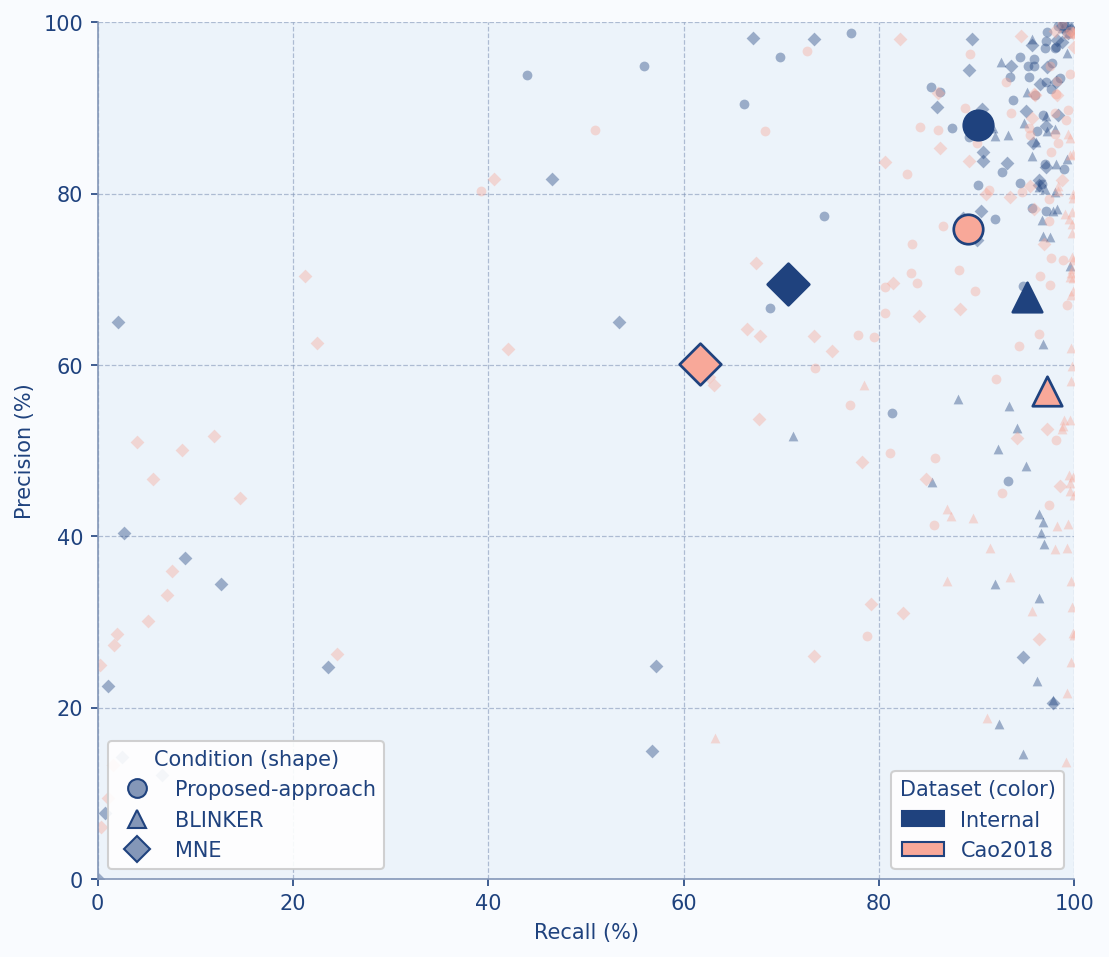
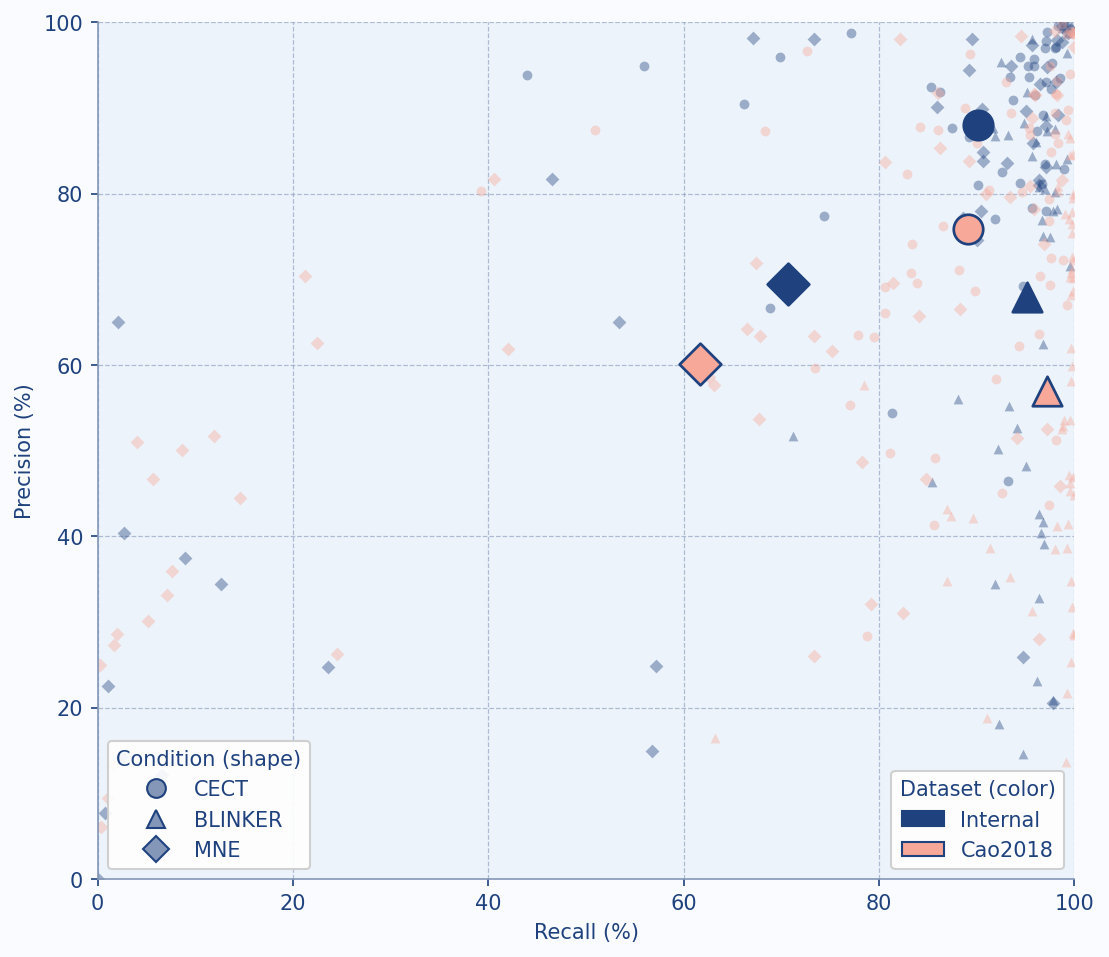
Refine table and figure captions to replace "Proposed-approach" with "CECT", clarifying baseline comparisons and significance in F1 results

Changed region(s): [[0.092, 0.7879, 0.3372, 0.9091], [0.2759, 0.8788, 0.3066, 0.9091]]

diff --git a/experiment_script/res_exp3_table_strategy_f1_significance.py b/experiment_script/res_exp3_table_strategy_f1_significance.py
@@ -1,11 +1,11 @@
-"""Table 4 — Proposed-approach F1 vs. both baselines, per dataset.
+"""Table 4 — CECT F1 vs. both baselines, per dataset.
 
-Writes ``writing/e_result/exp4/tab_f1_significance.tex`` (tab:f1_significance).
+Writes ``writing/e_result/exp3/tab_f1_significance.tex`` (tab:f1_significance).
 
 Replaces the deleted Figure 4/8 (``fig4_fig5_condition_prf.py``'s ``fig_condition_prf``,
 which plotted precision/recall/F1 for the proposed approach alone). That figure's own
 generator is gone; this table keeps only what a reader actually used from it -- each
-condition's F1 and whether Proposed-approach differs significantly from it. The
+condition's F1 and whether CECT differs significantly from it. The
 precision/recall operating-point story now lives in Figure~\\ref{fig:exp2_pr_scatter}
 instead.
 
@@ -13,8 +13,8 @@ No Pooled row (Internal and Cao2018 only). Both BLINKER-concat and MNE-annot get
 own column (displayed as "BLINKER"/"MNE" via the shared ``DISPLAY_LABEL``/``P.display``
 mapping in ``paper_data.py``). Four tests total (two baselines x two datasets),
 Bonferroni-corrected as one family; the asterisk sits on each baseline's own cell,
-marking that specific baseline as significantly different from Proposed-approach (not a
-single combined marker on the Proposed-approach cell) -- two-sided Wilcoxon signed-rank,
+marking that specific baseline as significantly different from CECT (not a
+single combined marker on the CECT cell) -- two-sided Wilcoxon signed-rank,
 session-level F1. Exact $p$-values are not printed on the table, only the threshold in
 the caption, matching the Figure 7/10 asterisk convention used throughout the manuscript.
 
@@ -56,8 +56,19 @@ PROPOSED = "Proposed-Med"
 BASELINES = ["BLINKER-concat", "MNE-annot"]
 
 
-def compute(best: dict) -> list[tuple[str, float, dict[str, tuple[float, bool]]]]:
-    """``(dataset label, Proposed-approach F1, {baseline -> (F1, significant)})``.
+def mean_sd(best: dict, ds: str, cond: str) -> tuple[float, float]:
+    """Session-mean and sample SD of F1 for one dataset and condition."""
+    f1 = best[(ds, cond)]["f1"]
+    return f1.mean(), f1.std()
+
+
+def cell(m_sd: tuple[float, float], star: str = "") -> str:
+    """``\\rev{mean $\\pm$ SD*}`` table cell, in percent."""
+    return rf"\rev{{{P.fmt(m_sd[0])} $\pm$ {P.fmt(m_sd[1])}{star}}}"
+
+
+def compute(best: dict) -> list[tuple[str, tuple, dict[str, tuple[tuple, bool]]]]:
+    """``(dataset label, CECT (F1, SD), {baseline -> ((F1, SD), significant)})``.
 
     Significance is Bonferroni-corrected across all four tests (two baselines x two
     datasets) shown in this table, not per dataset alone.
@@ -65,10 +76,10 @@ def compute(best: dict) -> list[tuple[str, float, dict[str, tuple[float, bool]]]
     n_corrections = len(BASELINES) * 2
     rows = []
     for ds, label in [("raja", P.DSN["raja"]), ("cao", "Cao2018")]:
-        f1_prop = P.macro(best, ds, PROPOSED)[2]
+        f1_prop = mean_sd(best, ds, PROPOSED)
         per_baseline = {}
         for baseline in BASELINES:
-            f1_base = P.macro(best, ds, baseline)[2]
+            f1_base = mean_sd(best, ds, baseline)
             a, b = P.paired_f1(best, PROPOSED, baseline, ds_list=(ds,))
             _, p = stats.wilcoxon(a, b, alternative="two-sided")
             per_baseline[baseline] = (f1_base, min(1.0, p * n_corrections) < 0.05)
@@ -76,19 +87,18 @@ def compute(best: dict) -> list[tuple[str, float, dict[str, tuple[float, bool]]]
     return rows
 
 
-def build_table(rows: list[tuple[str, float, dict[str, tuple[float, bool]]]]) -> list[str]:
-    blinker, mne = (P.display(b) for b in BASELINES)
+def build_table(rows: list[tuple[str, tuple, dict[str, tuple[tuple, bool]]]]) -> list[str]:
     lines = [
         r"\begin{table}[ht]", r"  \centering",
-        r"  \caption{\rev{Session-mean $F_1$ (\%, mean $\pm$ SD) of the proposed pipeline, "
-        r"the BLINKER-threshold baseline, and MNE on Internal. All conditions are evaluated "
+        r"  \caption{\rev{Session-mean $F_1$ (\%, mean $\pm$ SD) of CECT, "
+        r"the BLINKER-threshold baseline, and MNE on Internal and Cao2018. All conditions are evaluated "
         r"at the retrospective best-channel-per-session operating point. An asterisk marks a "
-        r"baseline whose session-level $F_1$ differs significantly from that of the proposed "
-        r"pipeline (two-tailed Wilcoxon signed-rank test paired by session, Bonferroni-corrected "
+        r"baseline whose session-level $F_1$ differs significantly from that of CECT "
+        r"(two-tailed Wilcoxon signed-rank test paired by session, Bonferroni-corrected "
         r"over the four comparisons shown, adjusted $p < 0.05$).}}",
         r"  \label{tab:f1_significance}",
-        r"  \begin{tabular}{lccc}", r"    \toprule",
-        rf"    Dataset & Proposed & {blinker} & {mne} \\", r"    \midrule",
+        r"  \begin{tabular}{lccc}", r"    \toprule", "",
+        r"    Dataset & \rev{CECT} & \rev{BLINKER-threshold} & MNE \\", r"    \midrule",
     ]
     for label, f1_prop, per_baseline in rows:
         f1_blinker, sig_blinker = per_baseline["BLINKER-concat"]
@@ -96,8 +106,8 @@ def build_table(rows: list[tuple[str, float, dict[str, tuple[float, bool]]]]) ->
         star_blinker = "*" if sig_blinker else ""
         star_mne = "*" if sig_mne else ""
         lines.append(
-            f"    {label} & {P.fmt(f1_prop)} & {P.fmt(f1_blinker)}{star_blinker} & "
-            f"{P.fmt(f1_mne)}{star_mne} \\\\"
+            rf"    \rev{{{label}}} & {cell(f1_prop)} & {cell(f1_blinker, star_blinker)} & "
+            rf"{cell(f1_mne, star_mne)} \\"
         )
     lines += [r"    \bottomrule", r"  \end{tabular}", r"\end{table}"]
     return lines
@@ -106,13 +116,13 @@ def build_table(rows: list[tuple[str, float, dict[str, tuple[float, bool]]]]) ->
 def main() -> None:
     best = P.load_exp2_best()
     rows = compute(best)
-    P.write_tex(P.ER / "exp4" / "tab_f1_significance.tex", build_table(rows), SCRIPT)
+    P.write_tex(P.ER / "exp3" / "tab_f1_significance.tex", build_table(rows), SCRIPT)
     for label, f1_prop, per_baseline in rows:
         f1_blinker, sig_blinker = per_baseline["BLINKER-concat"]
         f1_mne, sig_mne = per_baseline["MNE-annot"]
-        print(f"{label}: Proposed={f1_prop*100:.2f}%  "
-              f"BLINKER={f1_blinker*100:.2f}% (sig={sig_blinker})  "
-              f"MNE={f1_mne*100:.2f}% (sig={sig_mne})")
+        print(f"{label}: CECT={f1_prop[0]*100:.2f}%  "
+              f"BLINKER={f1_blinker[0]*100:.2f}% (sig={sig_blinker})  "
+              f"MNE={f1_mne[0]*100:.2f}% (sig={sig_mne})")
 
 
 if __name__ == "__main__":

diff --git a/writing/e_result/exp3/tab_f1_significance.tex b/writing/e_result/exp3/tab_f1_significance.tex
@@ -1,12 +1,12 @@
 % Source: publication_results/; script experiment_script/res_exp3_table_strategy_f1_significance.py
 \begin{table}[ht]
   \centering
-  \caption{\rev{Session-mean $F_1$ (\%, mean $\pm$ SD) of the proposed pipeline, the BLINKER-threshold baseline, and MNE on Internal. All conditions are evaluated at the retrospective best-channel-per-session operating point. An asterisk marks a baseline whose session-level $F_1$ differs significantly from that of the proposed pipeline (two-tailed Wilcoxon signed-rank test paired by session, Bonferroni-corrected over the four comparisons shown, adjusted $p < 0.05$).}}
+  \caption{\rev{Session-mean $F_1$ (\%, mean $\pm$ SD) of CECT, the BLINKER-threshold baseline, and MNE on Internal and Cao2018. All conditions are evaluated at the retrospective best-channel-per-session operating point. An asterisk marks a baseline whose session-level $F_1$ differs significantly from that of CECT (two-tailed Wilcoxon signed-rank test paired by session, Bonferroni-corrected over the four comparisons shown, adjusted $p < 0.05$).}}
   \label{tab:f1_significance}
   \begin{tabular}{lccc}
     \toprule
 
-    Dataset & Proposed & \rev{BLINKER-threshold} & MNE \\
+    Dataset & \rev{CECT} & \rev{BLINKER-threshold} & MNE \\
     \midrule
     \rev{Internal} & \rev{88.25 $\pm$ 10.10} & \rev{76.54 $\pm$ 20.10*} & \rev{66.64 $\pm$ 35.98*} \\
     \rev{Cao2018} & \rev{80.68 $\pm$ 13.04} & \rev{69.40 $\pm$ 19.39*} & \rev{56.27 $\pm$ 32.45*} \\

diff --git a/experiment_script/res_exp3_fig_strategy_precision_recall_scatter.py b/experiment_script/res_exp3_fig_strategy_precision_recall_scatter.py
@@ -53,6 +53,7 @@ FIGDIR = REPO / "writing" / "figures"
 FIGDIR.mkdir(parents=True, exist_ok=True)
 
 CONDS = ["Proposed-Med", "BLINKER-concat", "MNE-annot"]
+LEGEND_LABEL = {"Proposed-Med": "CECT"}
 MARKERS = {"Proposed-Med": "o", "BLINKER-concat": "^", "MNE-annot": "D"}
 DSN = {"raja": "Internal", "cao2018": "Cao2018"}
 DS_COLORS = {"raja": S.DATASET_COLORS["Internal"], "cao2018": S.DATASET_COLORS["Cao2018"]}
@@ -90,11 +91,11 @@ def main() -> None:
     S.style_axis(ax, grid_axis="both")
 
     # two-part legend: marker shape -> condition, color -> dataset. Labels go through
-    # P.display() so they match Table 1's naming (BLINKER, MNE, Proposed-approach), not
-    # the raw CONDS/data-key strings (BLINKER-concat, MNE-annot, Proposed-Med).
+    # P.display() so they match Table 1's naming (BLINKER, MNE), not the raw CONDS/data-key
+    # strings (BLINKER-concat, MNE-annot); the proposed pipeline is labelled CECT here.
     cond_handles = [
         Line2D([0], [0], marker=MARKERS[c], color="none", markerfacecolor=S.PANEL_BLUE,
-               markeredgecolor=S.NAVY, markersize=9, label=P.display(c))
+               markeredgecolor=S.NAVY, markersize=9, label=LEGEND_LABEL.get(c, P.display(c)))
         for c in CONDS
     ]
     ds_handles = [Patch(facecolor=DS_COLORS[ds], edgecolor=S.NAVY, label=DSN[ds])

diff --git a/writing/e_result/exp3/sec.tex b/writing/e_result/exp3/sec.tex
@@ -12,6 +12,6 @@
 \begin{figure}[ht]
   \centering
   \includegraphics[width=0.9\linewidth]{fig_exp2_pr_scatter.pdf}
-  \caption{\rev{Per-session precision-recall operating points of the BLINKER-threshold baseline, MNE, and the proposed pipeline (labelled Proposed-approach in the legend) on Internal and Cao2018. Each small marker is one session's operating point for one method, taken at the retrospective best channel (oracle) in that session. Marker shape encodes the method and marker colour encodes the dataset. The large navy-outlined marker for each method marks its mean over sessions within that dataset.}}
+  \caption{\rev{Per-session precision-recall operating points of the BLINKER-threshold baseline, MNE, and CECT on Internal and Cao2018. Each small marker is one session's operating point for one method, taken at the retrospective best channel in that session. Marker shape encodes the method and marker colour encodes the dataset. The large navy-outlined marker for each method marks its mean over sessions within that dataset.}}
   \label{fig:exp3_pr_scatter}
 \end{figure}
